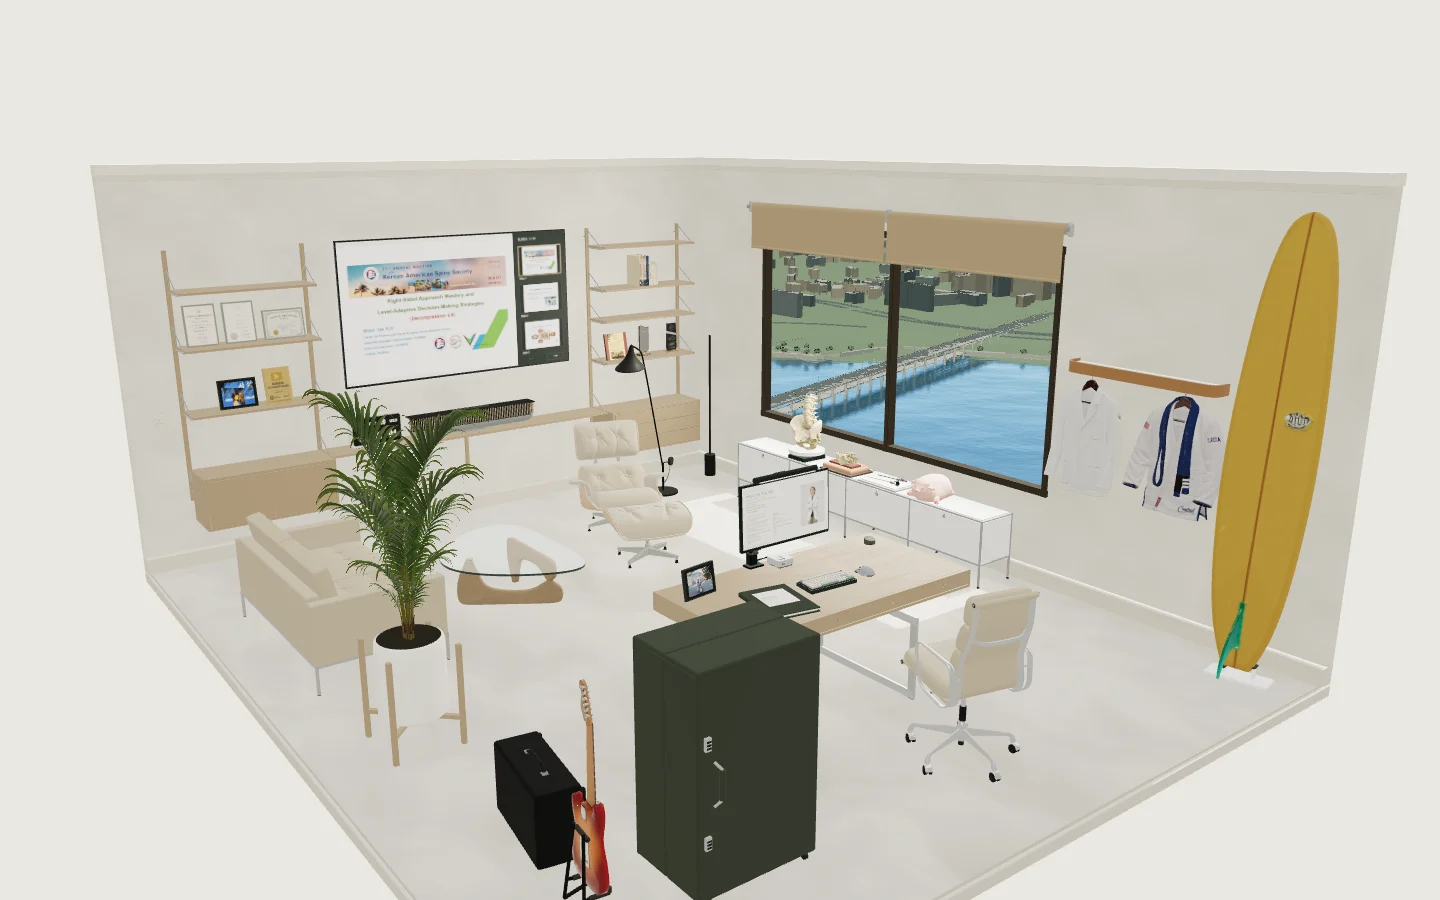
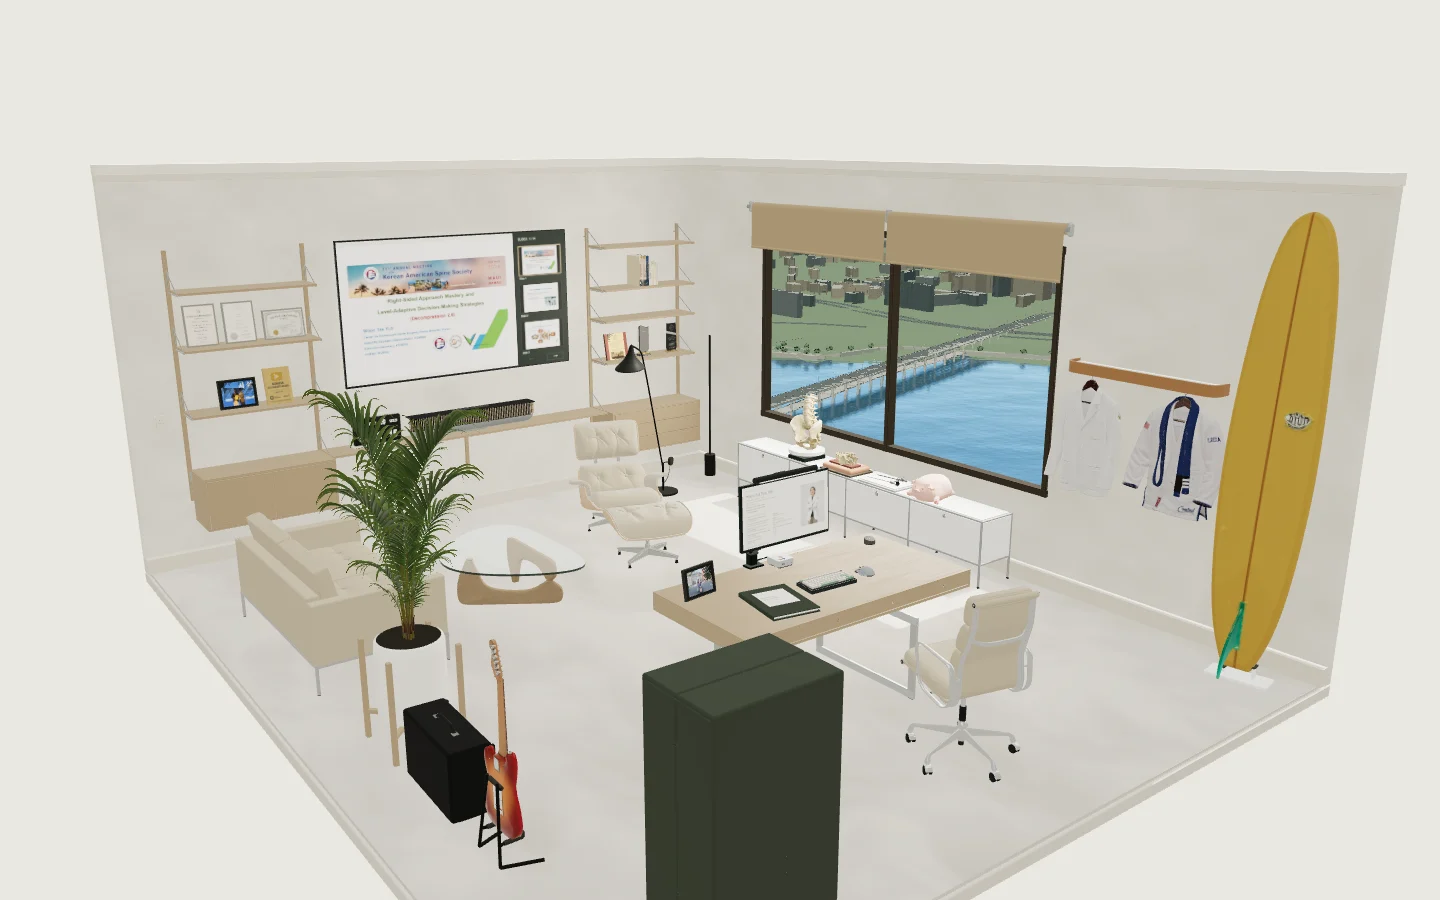
Face the Isidoro cabinet into the office
Turn the bar toward the desk and relocate the guitar and amplifier outside its complete opening sweep. Keep the original furniture models and finishes, align arrangement controls, and refresh actual-room loading/share images.

Changed region(s): [[0.2812, 0.6533, 0.5938, 1.0]]

diff --git a/src/components/studio/arrangement.tsx b/src/components/studio/arrangement.tsx
@@ -14,7 +14,7 @@ export const FURNITURE = {
   signe: { label: 'Signe', center: [-2.49, 0, 2.84], radius: 0.06, handle: 1.6 },
   whisky: { label: 'Isidoro drinks cabinet', center: WHISKY_CABINET.center,
     radius: Math.hypot(WHISKY_CABINET.width, WHISKY_CABINET.depth) / 2 + .04, handle: 2.25 },
-  music: { label: 'Guitar & amp', center: [2.12, 0, -2.1], radius: 0.61, handle: 1.1 },
+  music: { label: 'Guitar & amp', center: [2.28, 0, -1.48], radius: 0.61, handle: 1.1 },
 } as const satisfies Record<string, { readonly label: string; readonly center: Point; readonly radius: number; readonly handle: number }>;
 export type FurnitureId = keyof typeof FURNITURE;
 export const FURNITURE_IDS: readonly FurnitureId[] = ['desk', 'chair', 'sofa', 'table', 'lounge', 'plant', 'mantis', 'signe', 'music', 'whisky'];

diff --git a/src/components/studio/scene/config.ts b/src/components/studio/scene/config.ts
@@ -54,7 +54,7 @@ export const ROOM = {
   gallery: { position: [0, 1.94, 3.245], rotation: Math.PI },
   chair: { position: [-0.2, 0.0185, -2.59], rotation: Math.PI - 0.23 },
   credenza: { position: [-2.42, 0.0185, 0.55], width: 3.023, depth: 0.373, height: 0.55 },
-  music: { position: [2.12, 0.0185, -2.1], rotation: -Math.PI / 2 - 0.12 },
+  music: { position: [2.28, 0.0185, -1.48], rotation: -Math.PI / 2 },
   plant: { position: [2.18, 0.0185, -0.55] },
   wardrobe: { position: [-2.658, 0.0185, -1.95], rotation: Math.PI * 1.5, width: 1.18, height: 0.08, depth: 0.204 },
   surfboard: { position: [-2.382, 0, -3.01], rotation: Math.PI / 2 + 0.18 },

diff --git a/src/components/studio/scene/WhiskyCabinetLayout.ts b/src/components/studio/scene/WhiskyCabinetLayout.ts
@@ -20,8 +20,8 @@ export const ISIDORO_BOTTLE_DECK_TOP = 0.12;
 
 export const WHISKY_CABINET = {
   ...ISIDORO_DIMENSIONS,
-  center: [1.45, 0.0185, -2.55],
-  rotation: 0,
+  center: [1.63, 0.0185, -2.9],
+  rotation: Math.PI,
   shelfTops: [0.1, ISIDORO_WORKTOP_HEIGHT, 0.91],
 } as const satisfies typeof ISIDORO_DIMENSIONS & {
   readonly center: Point;

diff --git a/SESSION_HANDOFF.md b/SESSION_HANDOFF.md
@@ -6,7 +6,7 @@ The current finishing batch includes seven photographed personal books with pull
 
 2026 curated TV media includes seven complete PDF decks (107 pages) and eight Spine Summit Faculty/Cadaver Instructor photographs. `TVPDF_*.pdf` identifies a slide deck; `TVIMG/` inside a dated meeting folder identifies event photos. Both are explicit imports, not a Dropbox watcher. The owner subsequently completed 2025 material: 11 PDF decks across 10 events (201 pages) have been imported in this finishing pass. Three internal staff ID/contact areas were masked only in publication copies; source PDFs and author names remain unchanged. 2024 and earlier are explicitly deferred. TV image previews and in-screen arrows change the current page; the controls beneath the television change the event. See `docs/PRESENTATION_PDFS.md`. One private remote-control session URL in KOMISS page 12 was masked only in the public derivative; Dropbox originals are unchanged.
 
-The guitar-side cabinet now follows the Poltrona Frau Isidoro: muted olive gray exterior, Canaletto walnut interior, articulated opening and bar tools. Official closed dimensions are 71 × 51 × 117 cm. The measured procedural reconstruction is at [1.45, 0.0185, -2.55], rotation 0; body click or the local keyboard-accessible control opens/closes it. Arrange closes it before moving, and placement remains visit-only. Preserve the existing bookcase and guitar. Its lower bottle bay is displayed open rather than reproducing every internal storage door.
+The guitar-side cabinet now follows the Poltrona Frau Isidoro: muted olive gray exterior, Canaletto walnut interior, articulated opening and bar tools. Official closed dimensions are 71 × 51 × 117 cm. The measured procedural reconstruction is at [1.63, 0.0185, -2.9], rotation Math.PI (front toward room/desk); body click or the local keyboard-accessible control opens/closes it. Arrange closes it before moving, and placement remains visit-only. The guitar/amp group is now [2.28, 0.0185, -1.48], rotation -Math.PI/2, clear of the opening arc. Preserve both models and the existing bookcase. Its lower bottle bay is displayed open rather than reproducing every internal storage door.
 
 Final screenshots, tests, performance and release receipt are in `.omo/evidence/office-entry-2026-09-09/`. The release receipt is the source of truth for commit, remote and live provider verification. Port4322 still serves built `dist`, so rebuild after editing. Do not revive old static photo modals or clear the photographed book/certificate/award collections. Han River skyline fidelity and administrator-persisted furniture layouts remain deferred.
 
